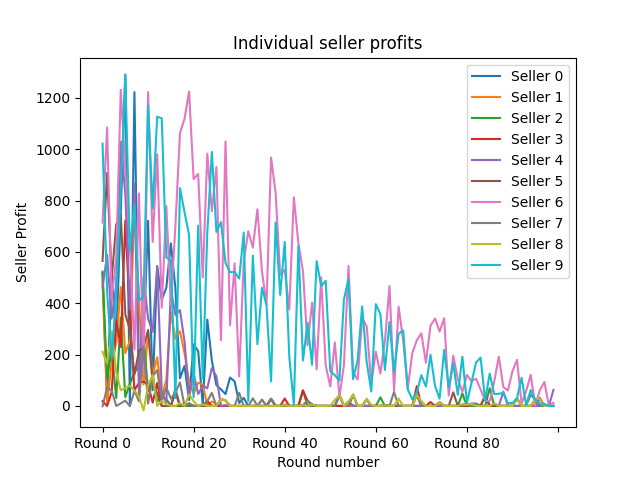
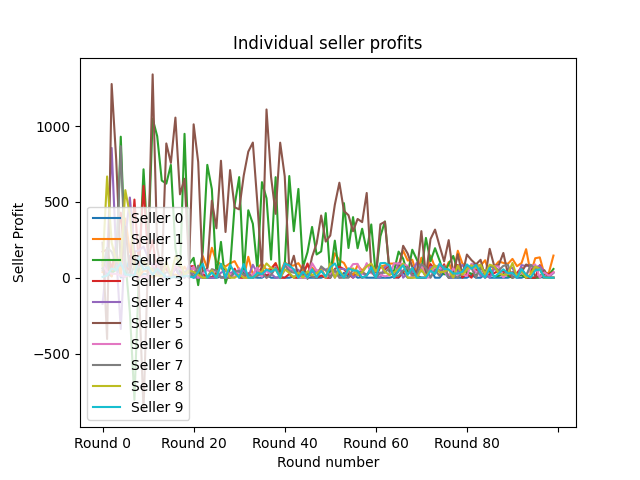
fix leveled auction number 4

diff --git a/ass2/auctioning.py b/ass2/auctioning.py
@@ -185,23 +185,32 @@ class Auction:
                 winner = self.buyers[winner_id]
 
                 # calculate seller profit
-                item.seller.profit += winner_payout - item.starting_price
-                if winner_payout - item.starting_price < 0:
-                    test = 0
+                seller_profit = winner_payout - item.starting_price
+                item.seller.profit += seller_profit
 
                 # calculate buyer profit
-                winner.increase_profit(item, winner_payout)
+                buyer_profit = winner.increase_profit(item, winner_payout)
 
                 # decide which one to decommit
                 if self.auction_type == auction_leveled and winner in winners:
                     worst_buy = winner.get_least_profitable_buy()
                     fee = self.penalty_factor * worst_buy['winner_payout']
 
-                    if fee < worst_buy['profit']:
-                        item.seller.profit += fee
-                        item.seller.profit -= worst_buy['winner_payout'] - worst_buy['item'].starting_price
+                    if buyer_profit - fee > worst_buy['profit']:
+                        worst_buy['item'].seller.profit += fee
+                        worst_buy['item'].seller.profit -= worst_buy['winner_payout'] - worst_buy['starting_price']
+
                         winner.profit -= fee
                         winner.profit -= worst_buy['profit']
+                        winner.remove_worst_buy()
+                    else:
+                        fee = self.penalty_factor * winner_payout
+                        item.seller.profit += fee
+                        item.seller.profit -= seller_profit
+
+                        winner.profit -= fee
+                        winner.profit -= buyer_profit
+
                 winners.append(winner)
 
                 if self.auction_type == auction_pure:
@@ -509,12 +518,20 @@ class Buyer:
             'item': item,
             'market_price': item.get_market_price(),
             'winner_payout': winner_payout,
-            'profit': profit
+            'profit': profit,
+            'starting_price': item.starting_price
         })
         self.profit += profit
+        return profit
 
     def get_least_profitable_buy(self):
-        return sorted(self.current_profits, key=lambda x: x['profit'])[0]
+        worst_buy = sorted(self.current_profits, key=lambda x: x['profit'])[0]
+        return worst_buy
+
+    def remove_worst_buy(self):
+        worst_buy = sorted(self.current_profits, key=lambda x: x['profit'])[0]
+        self.current_profits.remove(worst_buy)
+
 
     def change_bidding_by_factor(self, seller, factor):
         self.bidding_factors[seller.id] = max(self.bidding_factors[seller.id] * factor, 1)
